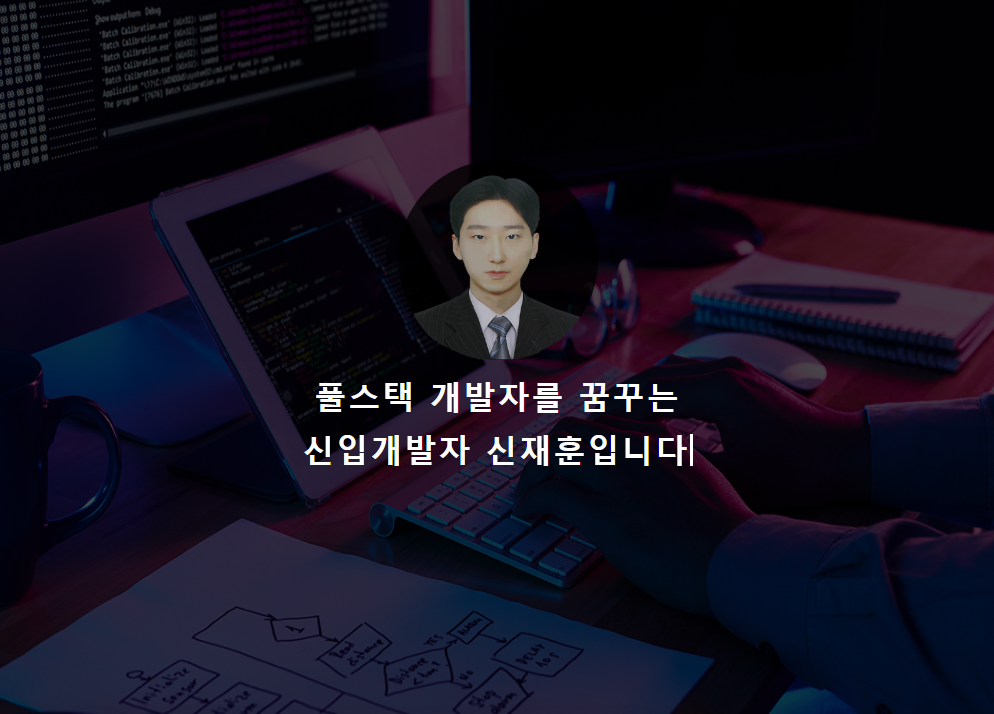
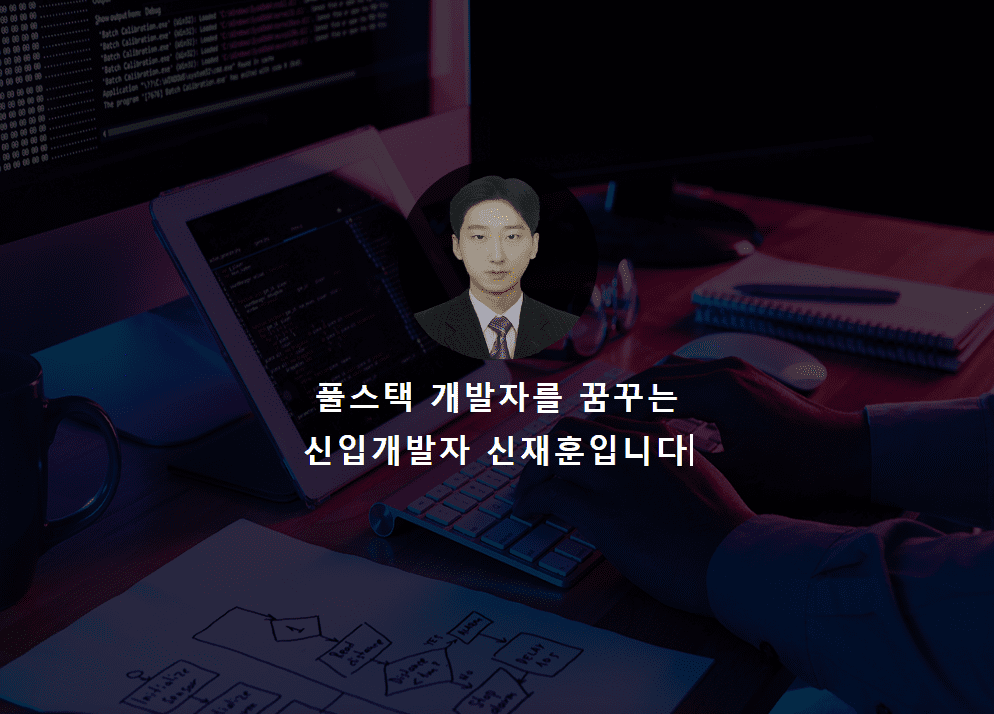
이미지 용량 축소

diff --git a/src/component/skills.js b/src/component/skills.js
@@ -3,18 +3,6 @@ import "../css/skills.scss"
 import BeautyStars from 'beauty-stars';
 export default class skills extends Component {
     render() {
-        window.addEventListener('scroll', function () {
-            if (document.getElementById("aboutMe").scrollHeight + document.getElementById("project").scrollHeight + 200 < this.window.scrollY) {
-                console.log(document.getElementsByClassName("skillDiv")[0]);
-              document.getElementsByClassName("skillDiv")[0].style.visibility = "visible";
-              document.getElementsByClassName("skillDiv")[0].style.animation = "fadein3 1.5s"
-              document.getElementsByClassName("skillDiv")[1].style.visibility = "visible";
-              document.getElementsByClassName("skillDiv")[1].style.animation = "fadein3 1.5s"
-              document.getElementsByClassName("skillDiv")[2].style.visibility = "visible";
-              document.getElementsByClassName("skillDiv")[2].style.animation = "fadein3 1.5s"
-      
-            }
-          })
         return (
             <section className="slide" id="skills">
                 <div className="skillDiv">

diff --git a/src/css/project.scss b/src/css/project.scss
@@ -33,22 +33,20 @@
         }
     }
 }
-#projectImg .slick-slider{
-    visibility: visible;
-}
-.slick-slider{
-    visibility: hidden;
-}
 .slick-prev{
     left: 0 !important;
     z-index: 1;
+    width: 40px !important;
+    height: 40px  !important;
     &:before{
         color : black !important;
         font-size: 40px !important;
     }
 }
 .slick-next{
-    right: 20px !important;
+    width: 40px !important;
+    height: 40px  !important;
+    right: 0 !important;
     &:before{
         color : black !important;
         font-size: 40px !important;
@@ -203,12 +201,12 @@
         }
     }
 }
-    .slick-next{
-        right: 55px !important;
-    }
-    .slick-prev:before, .slick-next:before{
-        color : black !important;
-        font-size: 75px !important;
-    
+    .slick-prev, .slick-next{
+        width: 75px !important;
+        height: 75px !important;
+        &:before{
+            color : black !important;
+            font-size: 75px !important;
+        }
     }
 }

diff --git a/src/component/project.js b/src/component/project.js
@@ -23,14 +23,6 @@ export default class project extends Component {
   }
 
   render() {
-    window.addEventListener('scroll', function () {
-      if (document.getElementById("aboutMe").scrollHeight + 200 < this.window.scrollY) {
-
-        document.getElementsByClassName("slick-slider")[1].style.visibility = "visible";
-        document.getElementsByClassName("slick-slider")[1].style.animation = "fadein3 1.5s"
-
-      }
-    })
 
     const settings = {
       customPaging: function (i) {

diff --git a/src/component/contact.js b/src/component/contact.js
@@ -14,7 +14,7 @@ export default class contact extends Component {
         function sendEmail(e) {
             e.preventDefault();
             if(document.getElementById("message").value.length>600){
-                alert("글자 수가 초과되었습니다.");
+                alert("글자 수가 초과되었습니다..");
                 return;
             }
         

diff --git a/src/css/header.scss b/src/css/header.scss
@@ -194,3 +194,9 @@ html{
 }
 
 }
+@media(max-width : 499px){
+    .slide{
+        padding-top : 6% !important;
+        padding-bottom : 6% !important;
+    }
+}

diff --git a/src/css/skills.scss b/src/css/skills.scss
@@ -28,7 +28,6 @@
     }
 }
 .skillDiv{
-    visibility: hidden;
     position: relative;
     margin-left : 5vw;
     margin-right: 5vw;
